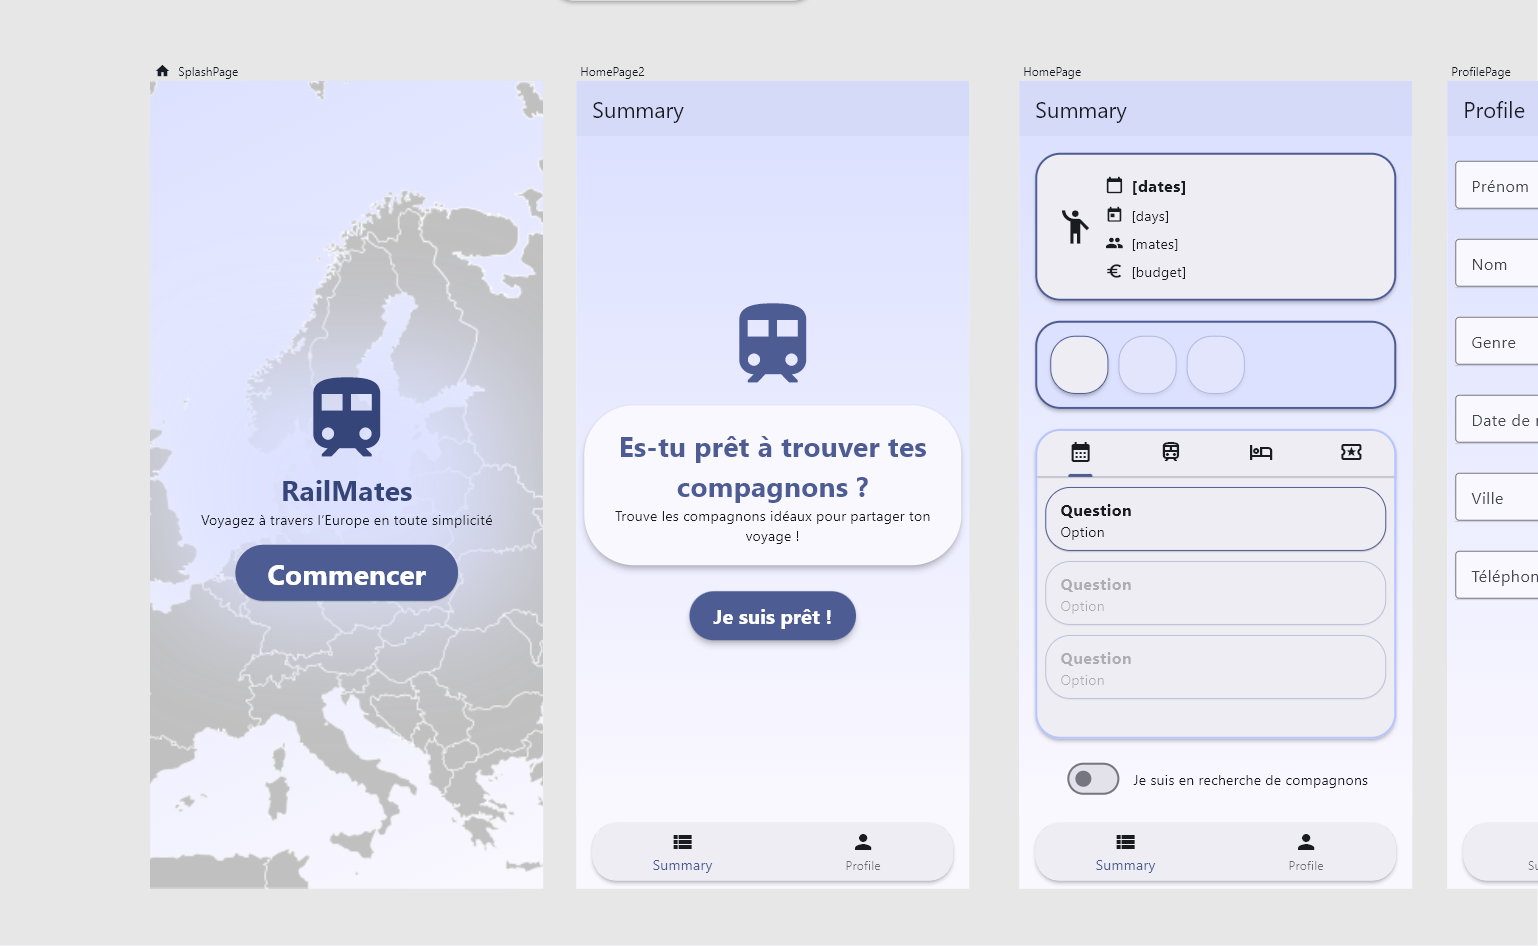
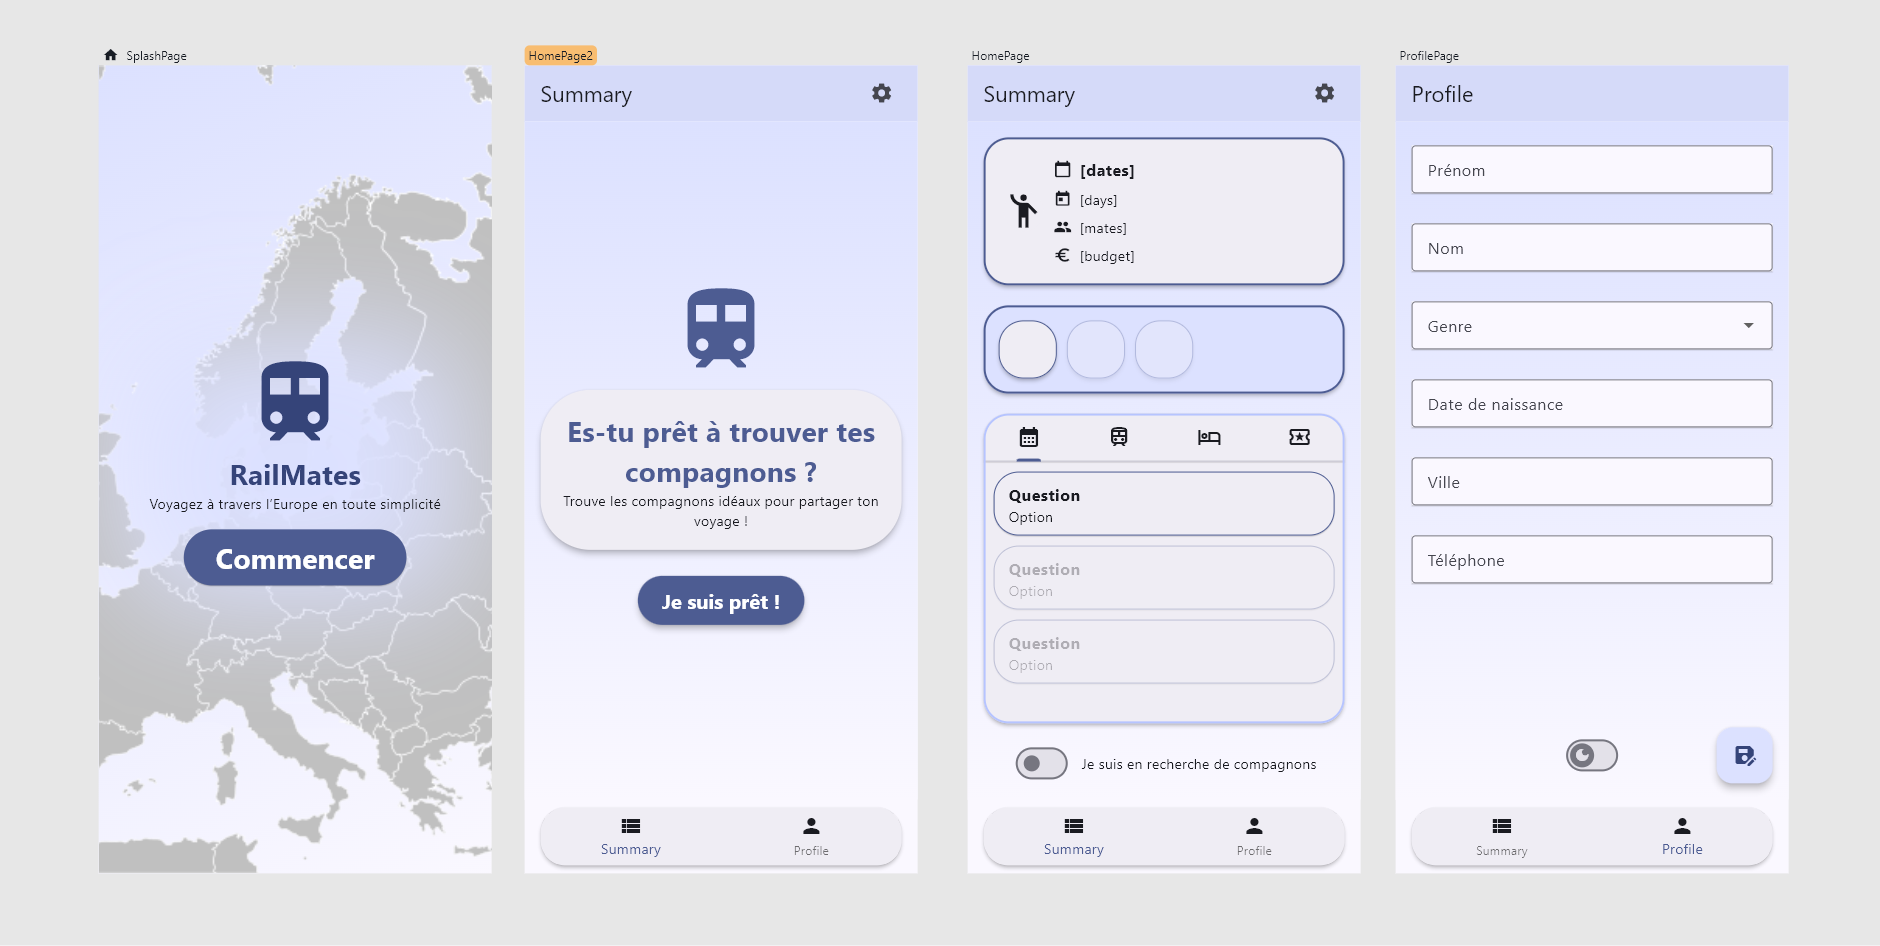
🎨 Add a settings button to the action bar

diff --git a/lib/pages/home_page2.dart b/lib/pages/home_page2.dart
@@ -2,6 +2,7 @@ import 'package:flutter/material.dart';
 import 'package:nowa_runtime/nowa_runtime.dart';
 import 'package:railmates/global_state.dart';
 import 'package:railmates/components/nav_bar.dart';
+import 'package:go_router/go_router.dart';
 
 @NowaGenerated()
 class HomePage2 extends StatefulWidget {
@@ -31,7 +32,7 @@ class _HomePage2State extends State<HomePage2> {
           ),
         ),
         child: SafeArea(
-          minimum: const EdgeInsets.symmetric(vertical: 8.0, horizontal: 8.0),
+          minimum: const EdgeInsets.symmetric(vertical: 8.0, horizontal: 16.0),
           child: Column(
             spacing: 10.0,
             mainAxisSize: MainAxisSize.max,
@@ -51,7 +52,7 @@ class _HomePage2State extends State<HomePage2> {
                 height: null,
                 width: double.infinity,
                 child: Material(
-                  color: Theme.of(context).colorScheme.surface,
+                  color: Theme.of(context).colorScheme.surfaceContainer,
                   elevation: 5.0,
                   shape: RoundedRectangleBorder(
                     borderRadius: BorderRadius.circular(50.0),
@@ -117,8 +118,8 @@ class _HomePage2State extends State<HomePage2> {
                       side: const WidgetStatePropertyAll<BorderSide?>(null),
                       shape:
                           const WidgetStatePropertyAll<RoundedRectangleBorder?>(
-                        null,
-                      ),
+                            null,
+                          ),
                     ),
                     child: Padding(
                       padding: const EdgeInsets.symmetric(
@@ -146,6 +147,20 @@ class _HomePage2State extends State<HomePage2> {
         title: const Text('Summary'),
         backgroundColor: Theme.of(context).colorScheme.primaryContainer,
         elevation: 1.0,
+        actions: [
+          Padding(
+            padding: const EdgeInsets.symmetric(
+              vertical: 8.0,
+              horizontal: 16.0,
+            ),
+            child: IconButton(
+              onPressed: () {
+                GoRouter.of(context).push('/profile');
+              },
+              icon: const Icon(Icons.settings),
+            ),
+          ),
+        ],
       ),
     );
   }

diff --git a/lib/pages/profile_page.dart b/lib/pages/profile_page.dart
@@ -3,6 +3,8 @@ import 'package:nowa_runtime/nowa_runtime.dart';
 import 'package:railmates/global_state.dart';
 import 'package:railmates/models/cities_model.dart';
 import 'package:go_router/go_router.dart';
+import 'package:railmates/globals/app_state.dart';
+import 'package:railmates/globals/themes.dart';
 import 'package:railmates/components/nav_bar.dart';
 import 'package:railmates/integrations/supabase_service.dart';
 import 'package:railmates/models/profiles_model.dart';
@@ -53,7 +55,7 @@ class _ProfilePageState extends State<ProfilePage> {
           ),
         ),
         child: SafeArea(
-          minimum: const EdgeInsets.symmetric(vertical: 24.0, horizontal: 8.0),
+          minimum: const EdgeInsets.symmetric(vertical: 24.0, horizontal: 16.0),
           child: Column(
             spacing: 0.0,
             mainAxisSize: MainAxisSize.min,
@@ -270,6 +272,29 @@ class _ProfilePageState extends State<ProfilePage> {
                         ],
                       ),
                     ),
+                  ),
+                ),
+              ),
+              FlexSizedBox(
+                width: null,
+                height: null,
+                child: Switch(
+                  value: AppState.of(context).theme == darkTheme,
+                  onChanged: (value) {
+                    if (value) {
+                      AppState.of(
+                        context,
+                        listen: false,
+                      ).changeTheme(darkTheme);
+                    } else {
+                      AppState.of(
+                        context,
+                        listen: false,
+                      ).changeTheme(lightTheme);
+                    }
+                  },
+                  thumbIcon: const WidgetStatePropertyAll<Icon?>(
+                    Icon(Icons.dark_mode),
                   ),
                 ),
               ),

diff --git a/lib/pages/home_page.dart b/lib/pages/home_page.dart
@@ -550,7 +550,20 @@ class _HomePageState extends State<HomePage> {
         title: const Text('Summary'),
         elevation: 1.0,
         backgroundColor: Theme.of(context).colorScheme.primaryContainer,
-        actions: [],
+        actions: [
+          Padding(
+            padding: const EdgeInsets.symmetric(
+              vertical: 8.0,
+              horizontal: 16.0,
+            ),
+            child: IconButton(
+              onPressed: () {
+                GoRouter.of(context).push('/profile');
+              },
+              icon: const Icon(Icons.settings),
+            ),
+          ),
+        ],
       ),
       backgroundColor: Theme.of(context).colorScheme.surface,
     );
